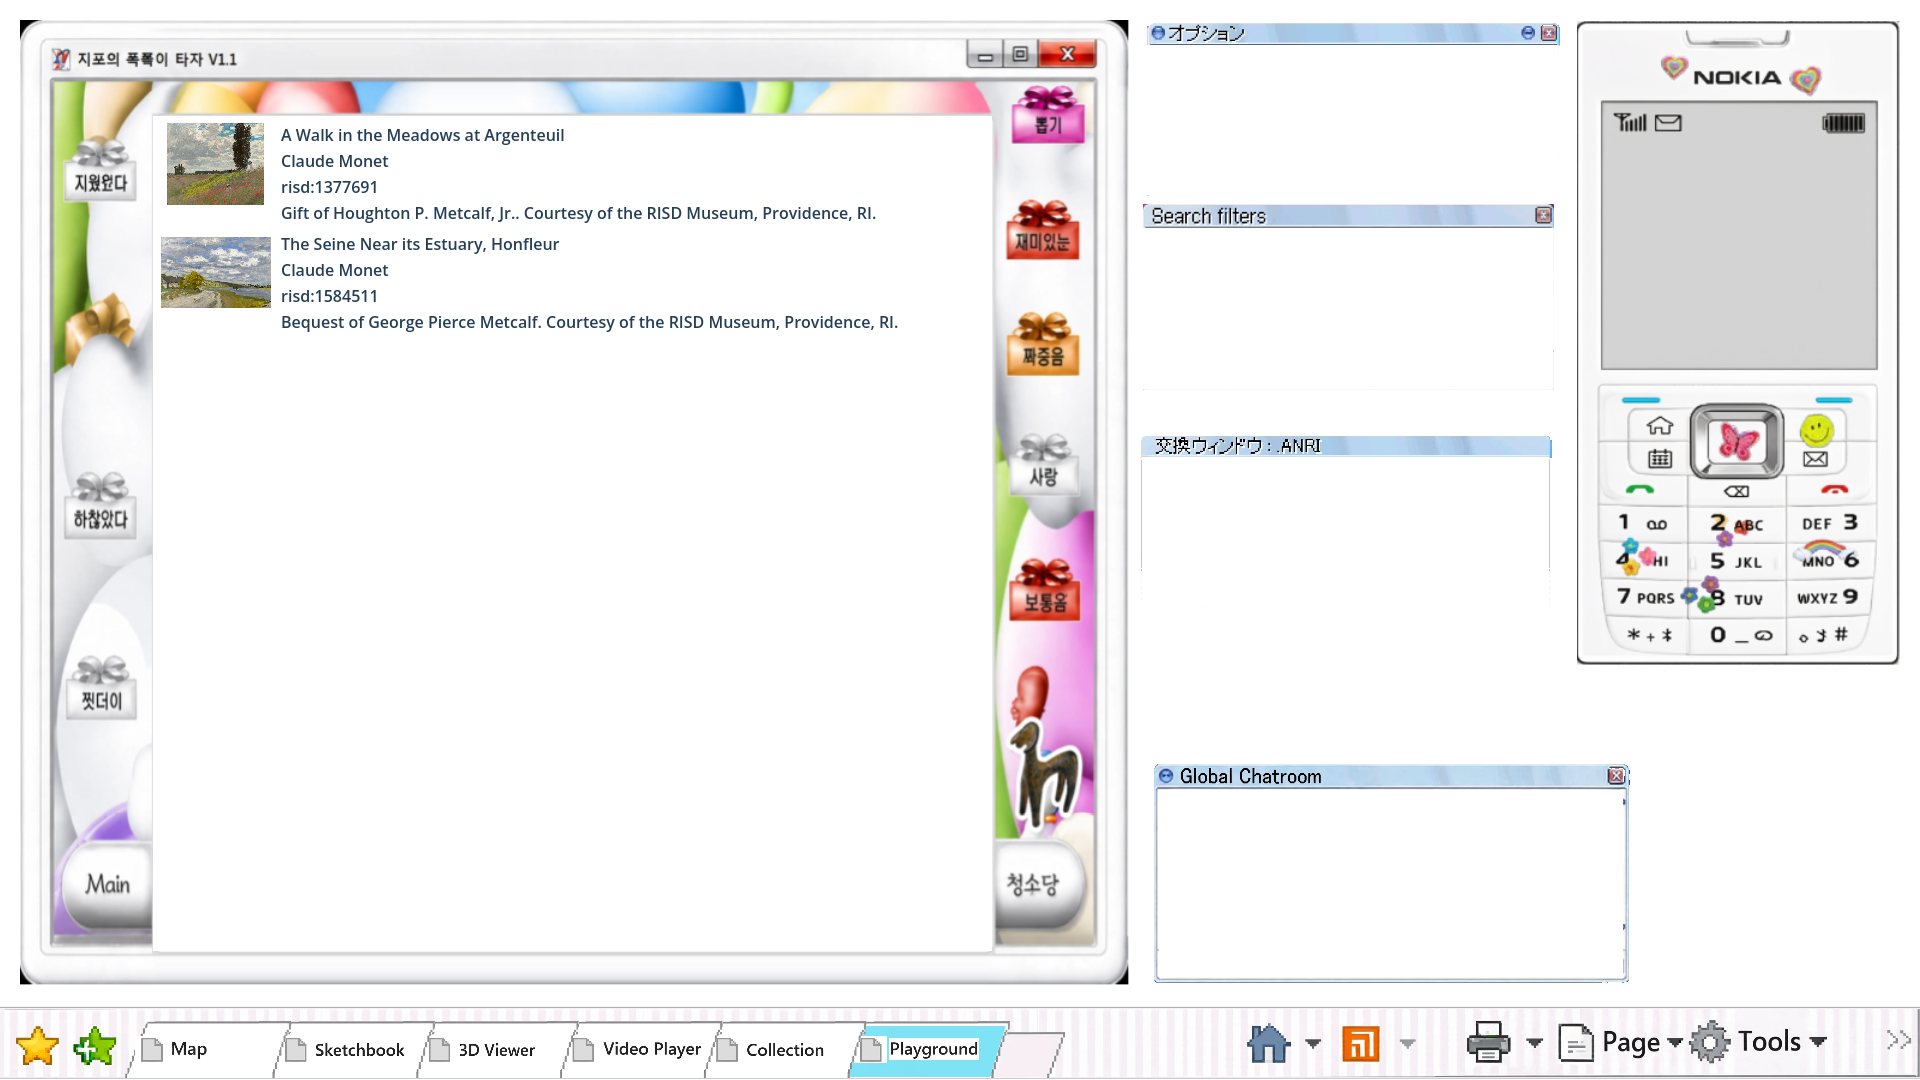
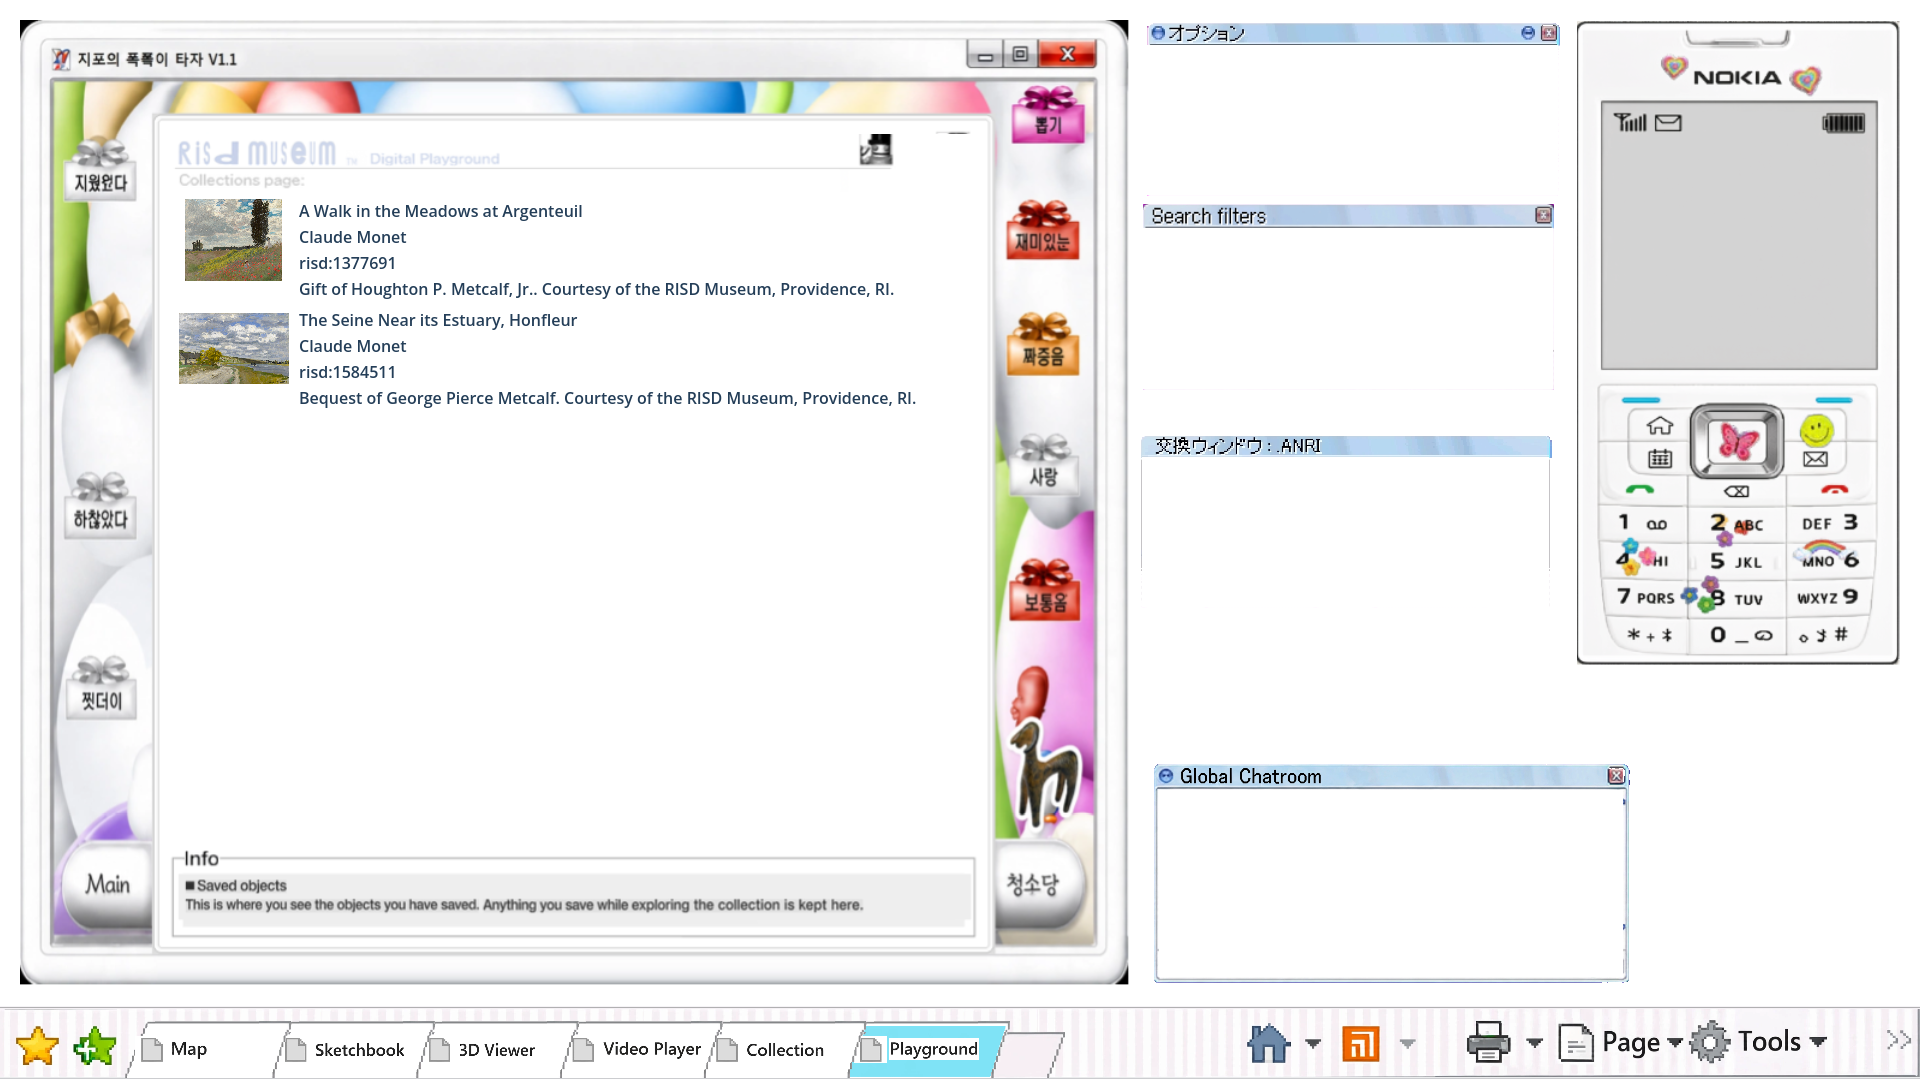
docs(playground): prove preserved colorful frame (#80)

Changed region(s): [[0.0625, 0.0917, 0.4688, 0.3972], [0.0938, 0.7944, 0.5, 0.8861], [0.4375, 0.1222, 0.4688, 0.1528]]

diff --git a/docs/evidence/browser-local-saves/README.md b/docs/evidence/browser-local-saves/README.md
@@ -16,8 +16,8 @@
 
 ![Sketchbook preserves references when images are offline](08-sketchbook-offline.png)
 
-Exact tested builds: save in `5133271.html`, then reopen in corrected `c15e184.html` on the retained
-`risd-desktop-godot-f57d02de` origin.
+Exact tested builds: save in `5133271.html`, reopen in `c15e184.html`, then verify the corrected
+Playground content clipping in `5554d87.html` on the retained `risd-desktop-godot-f57d02de` origin.
 
 The Playwright journey opened two game pages, saved a different RISD artwork from each at the same
 time, verified both committed records and images in Playground and Sketchbook, closed Chrome, then
@@ -28,7 +28,9 @@ that each leaves the committed document unchanged and never reports `Saved`.
 On the corrected build it selects a saved reference, chooses pigment, paints, changes reference,
 turns forward and back, switches Tabs, and verifies the reference, stroke, pigment and spread remain.
 It blocks image requests and verifies that both destinations retain artwork metadata and show
-`IMAGE UNAVAILABLE`. The same journey passes at 720×486; `report-720x486.json` records that run.
+`IMAGE UNAVAILABLE`. The same journey passes on `5554d87.html` at 720×486;
+`report-720x486.json` records that run. The saved-work surface stays inside the blank center so the
+RISD header, colorful frame, side controls and bottom information panel remain visible.
 
 The pinned `/risd-collection-browser/index.html` landing-path proof remains blocked by issue #77:
 the approved share tool publishes only session-suffixed paths and forbids hand-written Tailscale
